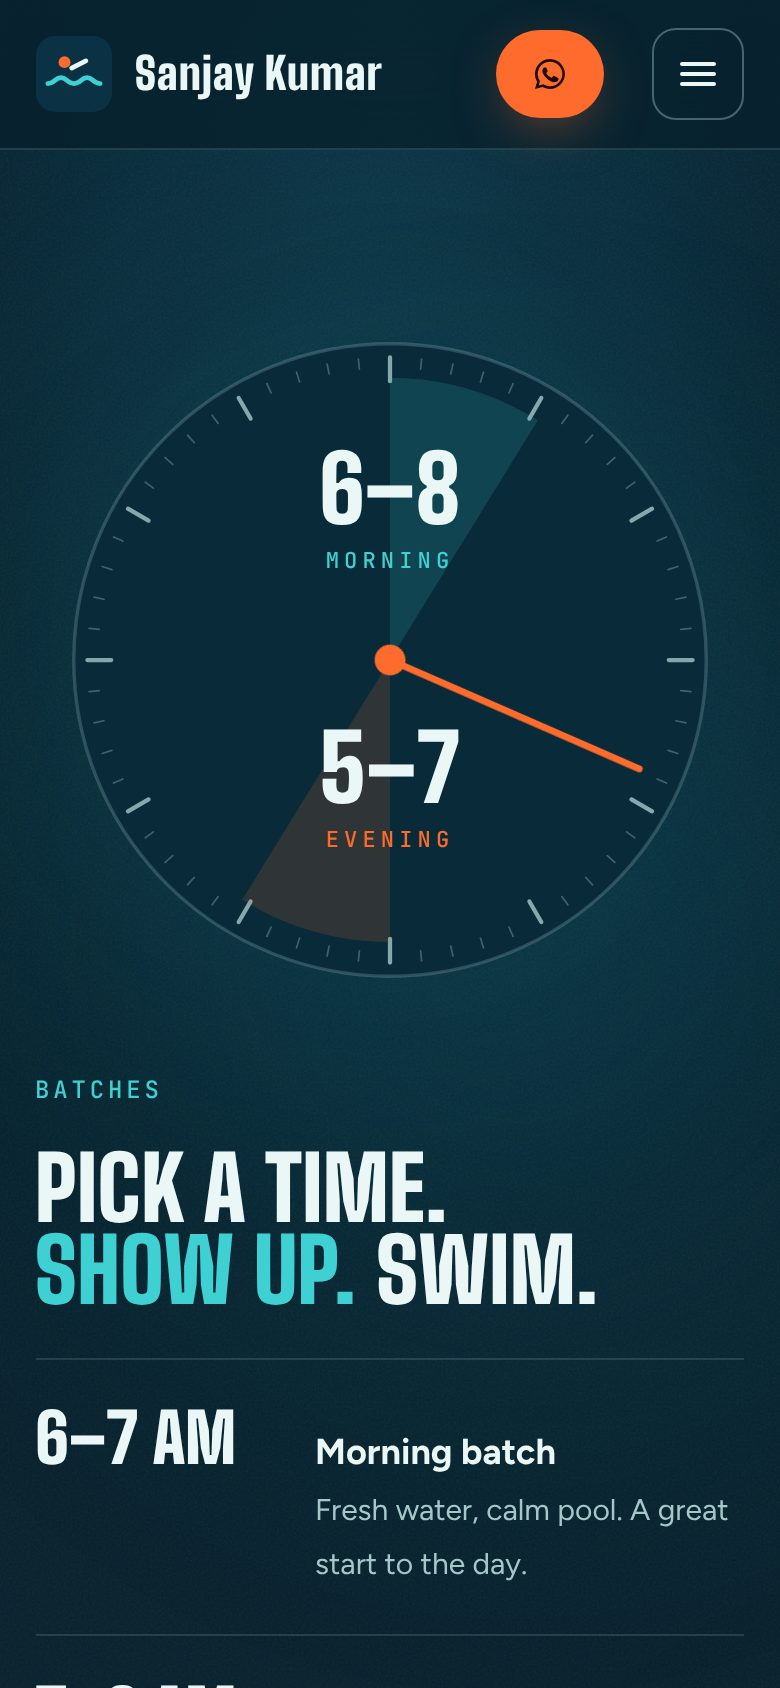
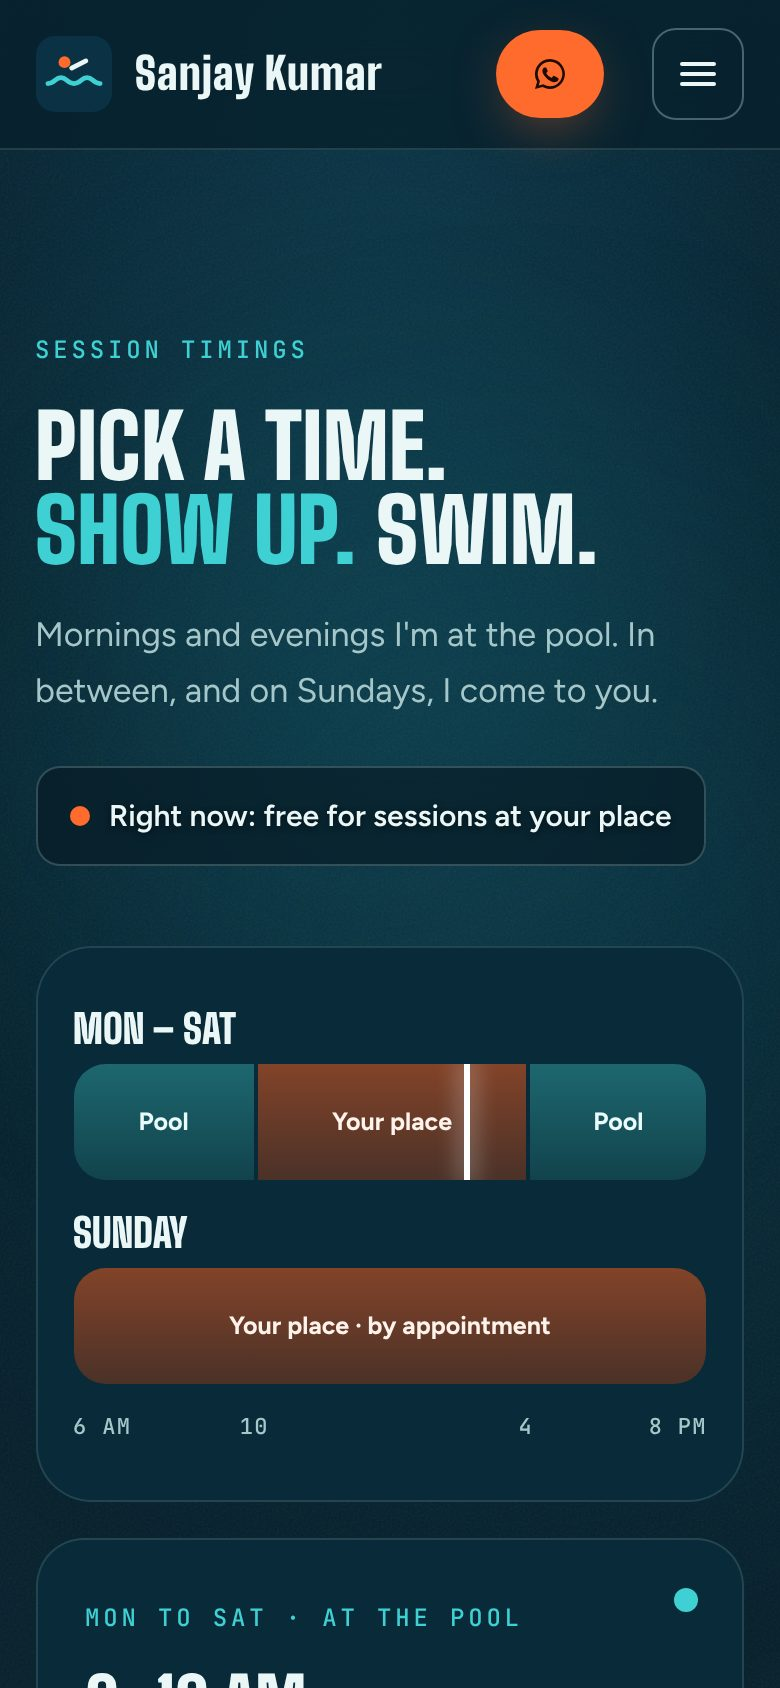
Session timings from Google hours: pool vs at-your-place
- At the pool: Mon to Sat, 6-10 AM and 4-8 PM (from the Google listing)
- At your place: Mon to Sat, 10 AM-4 PM, and Sundays by appointment
- Replace the clock with a day timeline, slot cards and a live
  "right now" status in Vadodara time
- Hours updated in hero, services, form, footer and schema; app
  screenshots refreshed; offline cache bumped to v5

Claude-Session: https://claude.ai/code/session_0166XwVfj69Xh86PZLCASZic

diff --git a/index.html b/index.html
@@ -71,7 +71,7 @@
       "areaServed": {"@type": "City", "name": "Vadodara"},
       "openingHoursSpecification": [{
         "@type": "OpeningHoursSpecification",
-        "dayOfWeek": ["Monday","Tuesday","Wednesday","Thursday","Friday","Saturday","Sunday"],
+        "dayOfWeek": ["Monday","Tuesday","Wednesday","Thursday","Friday","Saturday"],
         "opens": "06:00", "closes": "20:00"
       }],
       "hasOfferCatalog": {
@@ -389,18 +389,50 @@ fieldset{border:0;margin:0;padding:0;min-width:0}
 @media (max-width:900px){.steps{grid-template-columns:1fr}}
 
 /* ---------- batches as a pace clock ---------- */
-.batches .grid{max-width:1280px;margin:0 auto;display:grid;grid-template-columns:minmax(0,1fr) minmax(0,1fr);gap:clamp(30px,5vw,80px);align-items:center}
-.clockface{position:relative;aspect-ratio:1;max-width:520px;width:100%;margin:0 auto}
-.clockface svg{width:100%;height:100%}
-.clockface .hand{transform-origin:200px 200px;animation:sweep 60s linear infinite;animation-delay:-17s}
-@keyframes sweep{to{transform:rotate(360deg)}}
-.slots{list-style:none;margin:0;padding:0;border-top:1px solid var(--line)}
-.slots li{display:grid;grid-template-columns:150px 1fr;gap:20px;align-items:baseline;padding:22px 0;border-bottom:1px solid var(--line)}
-.slots time,.slots .t{font:900 34px/1 var(--display);font-variant-numeric:tabular-nums}
-.slots b{display:block;font-size:18px}
-.slots span{color:var(--text-secondary);font-size:15px}
-.batches h2{font-size:clamp(44px,5.4vw,84px);text-transform:uppercase;margin:16px 0 22px}
-@media (max-width:900px){.batches .grid{grid-template-columns:1fr}.clockface{max-width:340px}.slots li{grid-template-columns:120px 1fr}}
+.tl-head{display:flex;flex-wrap:wrap;justify-content:space-between;align-items:flex-end;gap:24px;margin-bottom:40px}
+.nowchip{display:inline-flex;align-items:center;gap:10px;padding:12px 16px;font-weight:600;font-size:15px}
+.nowchip i{width:10px;height:10px;border-radius:50%;background:var(--water);box-shadow:0 0 0 0 rgba(63,208,212,.6);animation:nowpulse 2.4s ease-out infinite}
+.nowchip.home i{background:var(--accent);animation-name:nowpulseO}
+.nowchip.off i{background:var(--text-secondary);animation:none}
+@keyframes nowpulse{0%{box-shadow:0 0 0 0 rgba(63,208,212,.55)}80%,100%{box-shadow:0 0 0 12px rgba(63,208,212,0)}}
+@keyframes nowpulseO{0%{box-shadow:0 0 0 0 rgba(255,107,44,.55)}80%,100%{box-shadow:0 0 0 12px rgba(255,107,44,0)}}
+.tl{padding:30px clamp(18px,3vw,36px) 18px;border-radius:28px;background:var(--canvas-2);border:1px solid var(--line)}
+.tl-row{display:grid;grid-template-columns:110px 1fr;gap:18px;align-items:center;margin-bottom:16px}
+.tl-day{font:900 24px/1 var(--display);text-transform:uppercase}
+.tl-bar{position:relative;height:58px;border-radius:16px;background:rgba(3,18,26,.6);overflow:hidden}
+.seg{position:absolute;top:0;bottom:0;left:calc(var(--l)*1%);width:calc(var(--w)*1%);display:flex;align-items:center;justify-content:center;font:600 14px/1.2 var(--body);text-align:center;padding:0 6px;transform-origin:left;transform:scaleX(0);transition:transform 1.1s var(--ease-out)}
+.seg+.seg{border-left:2px solid var(--canvas-2)}
+.seg.s-pool{background:linear-gradient(180deg,rgba(63,208,212,.42),rgba(63,208,212,.22));color:#e9fbfb}
+.seg.s-home{background:linear-gradient(180deg,rgba(255,107,44,.5),rgba(255,107,44,.28));color:#fff3ec}
+.seg b{font-weight:700}
+.seg .sm{display:none}
+.tl.in-view .seg{transform:none}
+.tl.in-view .tl-row .seg:nth-child(2){transition-delay:.15s}
+.tl.in-view .tl-row .seg:nth-child(3){transition-delay:.3s}
+.tl.in-view .tl-row[data-row=sun] .seg{transition-delay:.45s}
+.now{position:absolute;top:-4px;bottom:-4px;left:calc(var(--x,0)*1%);width:3px;margin-left:-1.5px;background:#fff;border-radius:3px;box-shadow:0 0 12px rgba(255,255,255,.8);display:none;z-index:2}
+.now.on{display:block}
+.tl-axis{position:relative;height:24px;margin-left:128px;margin-top:4px}
+.tl-axis span{position:absolute;left:calc(var(--x)*1%);transform:translateX(-50%);font:500 11px/1 var(--mono);letter-spacing:.06em;color:var(--text-secondary);white-space:nowrap}
+.tl-axis span:first-child{transform:none}
+.tl-axis span:last-child{transform:translateX(-100%)}
+.slotcards{display:grid;grid-template-columns:repeat(3,minmax(0,1fr));gap:16px;margin-top:18px}
+.slot{position:relative;padding:24px;border-radius:24px;background:var(--canvas-2);border:1px solid var(--line)}
+.slot .dot{position:absolute;right:22px;top:24px;width:12px;height:12px;border-radius:50%}
+.dot.s-pool{background:var(--water)}
+.dot.s-home{background:var(--accent)}
+.slot b{display:block;margin:14px 0 10px;font:900 clamp(34px,3.2vw,46px)/.95 var(--display);text-transform:uppercase}
+.slot p{color:var(--text-secondary);font-size:15px}
+.batches h2{font-size:clamp(44px,5.4vw,84px);text-transform:uppercase;margin:16px 0 18px}
+@media (max-width:900px){
+  .slotcards{grid-template-columns:1fr}
+  .tl-row{grid-template-columns:1fr;gap:8px}
+  .tl-axis{margin-left:0}
+  .tl-day{font-size:20px}
+  .seg .lg{display:none}.seg .sm{display:inline}
+  .seg{font-size:12.5px}
+  .tl-axis span:not(.k){display:none}
+}
 
 /* ---------- reviews ---------- */
 .reviews{overflow:hidden}
@@ -575,7 +607,7 @@ body.paused *,body.paused *::before,body.paused *::after{animation-play-state:pa
         <a class="btn btn-primary" href="#contact">Book your first session</a>
         <a class="btn btn-ghost" href="#services">See all services</a>
       </div>
-      <div class="meta h-in" style="--d:.96s"><span>Mon to Sun · 6 AM to 8 PM</span><span>At your place or the pool</span></div>
+      <div class="meta h-in" style="--d:.96s"><span>Mon to Sat · 6 AM to 8 PM</span><span>Sundays at your place</span></div>
     </div>
     <figure class="hero-photo">
       <div class="par" id="heroPar">
@@ -650,7 +682,7 @@ body.paused *,body.paused *::before,body.paused *::after{animation-play-state:pa
       <div class="swimmer" aria-hidden="true"><i></i></div>
       <div class="num" aria-hidden="true">01</div>
       <div><span class="badge">I come to you</span><h3>Personal training at your place</h3><div class="for">Home · society · farmhouse · club pools</div></div>
-      <p>Have a pool at home, in your apartment society, at a farmhouse or club? I come to you with a full lesson plan. Your timings, your privacy, and the whole family can share the session.</p>
+      <p>Have a pool at home, in your apartment society, at a farmhouse or club? I come to you with a full lesson plan. Mon to Sat, 10 AM to 4 PM, and Sundays. Your privacy, and the whole family can share the session.</p>
       <a class="ask" href="https://wa.me/919896424193?text=Hi%20Sanjay%20sir%2C%20I%27d%20like%20personal%20swimming%20training%20at%20my%20place." target="_blank" rel="noopener">Ask about this →</a>
     </article>
     <svg class="lanerope" viewBox="0 0 1200 16" preserveAspectRatio="none" aria-hidden="true"><path class="draw" d="M0 8H1200" stroke="#ff6b2c" stroke-width="6" stroke-dasharray="10 8" pathLength="1200" style="stroke-dashoffset:calc(var(--draw,1)*1200)"/></svg>
@@ -658,7 +690,7 @@ body.paused *,body.paused *::before,body.paused *::after{animation-play-state:pa
       <div class="swimmer" aria-hidden="true"><i></i></div>
       <div class="num" aria-hidden="true">02</div>
       <div><h3>One-on-one at the pool</h3><div class="for">No pool at home? No problem</div></div>
-      <p>We train one-on-one at a pool in Vadodara that is easy for you to reach. Just you and me in the lane, with full attention on your stroke, breathing and pace.</p>
+      <p>We train one-on-one at a pool in Vadodara that is easy for you to reach. Mon to Sat, 6–10 AM or 4–8 PM. Just you and me in the lane, with full attention on your stroke, breathing and pace.</p>
       <a class="ask" href="https://wa.me/919896424193?text=Hi%20Sanjay%20sir%2C%20I%27d%20like%20one-on-one%20training%20at%20the%20pool." target="_blank" rel="noopener">Ask about this →</a>
     </article>
     <svg class="lanerope" viewBox="0 0 1200 16" preserveAspectRatio="none" aria-hidden="true"><path class="draw" d="M0 8H1200" stroke="#eaf7f6" stroke-opacity=".5" stroke-width="6" stroke-dasharray="10 8" pathLength="1200" style="stroke-dashoffset:calc(var(--draw,1)*1200)"/></svg>
@@ -799,28 +831,38 @@ body.paused *,body.paused *::before,body.paused *::after{animation-play-state:pa
 
 <!-- ============ BATCHES ============ -->
 <section class="sec batches reveal" id="batches" aria-labelledby="batches-h">
-  <div class="grid">
-    <div class="clockface rv" aria-hidden="true">
-      <svg viewBox="0 0 400 400">
-        <circle cx="200" cy="200" r="186" fill="#082a39" stroke="rgba(159,195,198,.25)" stroke-width="2"/>
-        <g stroke="#a6c7ca" stroke-linecap="round" id="ticks"></g>
-        <path d="M200 200 L200 34 A166 166 0 0 1 287 59 Z" fill="rgba(63,208,212,.16)"/>
-        <path d="M200 200 L200 366 A166 166 0 0 1 113 341 Z" fill="rgba(255,107,44,.16)"/>
-        <text x="200" y="120" text-anchor="middle" fill="#eaf7f6" font-family="Big Shoulders Display,Impact,sans-serif" font-weight="900" font-size="54">6–8</text>
-        <text x="200" y="146" text-anchor="middle" fill="#3fd0d4" font-family="JetBrains Mono,monospace" font-size="13" letter-spacing="3">MORNING</text>
-        <text x="200" y="284" text-anchor="middle" fill="#eaf7f6" font-family="Big Shoulders Display,Impact,sans-serif" font-weight="900" font-size="54">5–7</text>
-        <text x="200" y="310" text-anchor="middle" fill="#ff6b2c" font-family="JetBrains Mono,monospace" font-size="13" letter-spacing="3">EVENING</text>
-        <g class="hand"><line x1="200" y1="200" x2="200" y2="40" stroke="#ff6b2c" stroke-width="4" stroke-linecap="round"/><circle cx="200" cy="200" r="9" fill="#ff6b2c"/></g>
-      </svg>
+  <div class="wrap">
+    <div class="tl-head">
+      <div>
+        <span class="kicker rv">Session timings</span>
+        <h2 class="rv" id="batches-h">Pick a time. <span class="aq">Show up.</span> Swim.</h2>
+        <p class="lede rv">Mornings and evenings I'm at the pool. In between, and on Sundays, I come to you.</p>
+      </div>
+      <div class="nowchip chip rv" id="nowChip" hidden><i aria-hidden="true"></i><span id="nowText"></span></div>
     </div>
-    <div>
-      <span class="kicker rv">Session timings</span>
-      <h2 class="rv" id="batches-h">Pick a time. <span class="aq">Show up.</span> Swim.</h2>
-      <ul class="slots rv">
-        <li><time datetime="06:00">6–8 AM</time><div><b>Morning sessions</b><span>Calm water, fresh start. Before school or office.</span></div></li>
-        <li><time datetime="17:00">5–7 PM</time><div><b>Evening sessions</b><span>After school for kids, after work for adults.</span></div></li>
-        <li><span class="t">Your time</span><div><b>At your place</b><span>Home or society pool sessions planned around your day.</span></div></li>
-      </ul>
+    <div class="tl rv" role="img" aria-label="Monday to Saturday: at the pool 6 to 10 AM, at your place 10 AM to 4 PM, at the pool 4 to 8 PM. Sunday: at your place by appointment.">
+      <div class="tl-row" data-row="week">
+        <div class="tl-day">Mon – Sat</div>
+        <div class="tl-bar">
+          <span class="seg s-pool" style="--l:0;--w:28.571"><b class="lg">At the pool</b><b class="sm">Pool</b></span>
+          <span class="seg s-home" style="--l:28.571;--w:42.857"><b class="lg">At your place</b><b class="sm">Your place</b></span>
+          <span class="seg s-pool" style="--l:71.429;--w:28.571"><b class="lg">At the pool</b><b class="sm">Pool</b></span>
+          <i class="now" aria-hidden="true"></i>
+        </div>
+      </div>
+      <div class="tl-row" data-row="sun">
+        <div class="tl-day">Sunday</div>
+        <div class="tl-bar">
+          <span class="seg s-home" style="--l:0;--w:100"><b class="lg">At your place · by appointment</b><b class="sm">Your place · by appointment</b></span>
+          <i class="now" aria-hidden="true"></i>
+        </div>
+      </div>
+      <div class="tl-axis" aria-hidden="true"><span class="k" style="--x:0">6 AM</span><span style="--x:14.286">8</span><span class="k" style="--x:28.571">10</span><span style="--x:42.857">12 PM</span><span style="--x:57.143">2</span><span class="k" style="--x:71.429">4</span><span style="--x:85.714">6</span><span class="k" style="--x:100">8 PM</span></div>
+    </div>
+    <div class="slotcards">
+      <div class="slot rv"><span class="dot s-pool" aria-hidden="true"></span><span class="kicker">Mon to Sat · at the pool</span><b>6–10 AM<br>4–8 PM</b><p>One-on-one at the pool. Mornings before school or office, evenings after.</p></div>
+      <div class="slot rv"><span class="dot s-home" aria-hidden="true"></span><span class="kicker">Mon to Sat · at your place</span><b>10 AM–4 PM</b><p>I come to your home, society or farmhouse pool in my free hours.</p></div>
+      <div class="slot rv"><span class="dot s-home" aria-hidden="true"></span><span class="kicker">Sunday · at your place</span><b>By appointment</b><p>Weekend sessions at your pool. Message me to fix a time.</p></div>
     </div>
   </div>
 </section>
@@ -918,7 +960,7 @@ body.paused *,body.paused *::before,body.paused *::after{animation-play-state:pa
         <div class="row2 rv">
           <div class="field"><label for="f-age">Swimmer's age</label><input id="f-age" name="age" inputmode="numeric" placeholder="e.g. 8"></div>
           <div class="field"><label for="f-time">Best time</label>
-            <select id="f-time" name="time"><option>Morning</option><option>Evening</option><option>Flexible</option></select></div>
+            <select id="f-time" name="time"><option>Morning, 6–10 AM (at the pool)</option><option>Evening, 4–8 PM (at the pool)</option><option>Daytime, 10 AM–4 PM (at my place)</option><option>Sunday (at my place)</option><option>Flexible</option></select></div>
         </div>
         <div class="field rv"><label for="f-msg">Anything I should know?</label><textarea id="f-msg" name="msg" placeholder="Area in Vadodara, swimming level, goals"></textarea></div>
         <button class="btn btn-primary rv" type="submit">Send on WhatsApp</button>
@@ -958,7 +1000,8 @@ body.paused *,body.paused *::before,body.paused *::after{animation-play-state:pa
         <li><a href="https://wa.me/919896424193" target="_blank" rel="noopener">WhatsApp</a></li>
         <li><a href="mailto:sanjuinsan9845@gmail.com">sanjuinsan9845@gmail.com</a></li>
         <li>Personal training across Vadodara</li>
-        <li>Mon to Sun · 6 AM to 8 PM</li>
+        <li>At the pool: Mon to Sat, 6–10 AM &amp; 4–8 PM</li>
+        <li>At your place: Mon to Sat, 10 AM–4 PM, and Sundays</li>
       </ul>
     </div>
   </div>
@@ -1084,16 +1127,31 @@ const live = new IntersectionObserver(es => es.forEach(e => e.target.classList.t
 $$('.hero, .ticker, .batches, .coach, .pool').forEach(el => live.observe(el));
 document.addEventListener('visibilitychange', () => document.body.classList.toggle('paused', document.hidden));
 
-// clock ticks
-const ticks = $('#ticks');
-for (let i = 0; i < 60; i++) {
-  const a = i / 60 * Math.PI * 2, r1 = i % 5 ? 172 : 164, r2 = 178;
-  const l = document.createElementNS('http://www.w3.org/2000/svg', 'line');
-  l.setAttribute('x1', 200 + Math.sin(a) * r1); l.setAttribute('y1', 200 - Math.cos(a) * r1);
-  l.setAttribute('x2', 200 + Math.sin(a) * r2); l.setAttribute('y2', 200 - Math.cos(a) * r2);
-  l.setAttribute('stroke-width', i % 5 ? 1 : 2.5); l.setAttribute('opacity', i % 5 ? .35 : .8);
-  ticks.appendChild(l);
+// timeline: draw bars when seen, and mark "now" in Vadodara time
+const tl = $('.tl');
+new IntersectionObserver((es, o) => es.forEach(e => { if (e.isIntersecting) { tl.classList.add('in-view'); o.disconnect(); } }), { threshold: 0.35 }).observe(tl);
+const nowChip = $('#nowChip'), nowText = $('#nowText');
+function updateNow() {
+  const parts = new Intl.DateTimeFormat('en-GB', { timeZone: 'Asia/Kolkata', weekday: 'short', hour: 'numeric', minute: 'numeric', hourCycle: 'h23' }).formatToParts(new Date());
+  const get = t => parts.find(p => p.type === t).value;
+  const day = get('weekday'), h = +get('hour') + +get('minute') / 60, sun = day === 'Sun';
+  $$('.tl .now').forEach(n => n.classList.remove('on'));
+  let txt, cls = '';
+  if (h >= 6 && h < 20) {
+    const mark = $(`.tl-row[data-row=${sun ? 'sun' : 'week'}] .now`);
+    mark.style.setProperty('--x', ((h - 6) / 14 * 100).toFixed(2));
+    mark.classList.add('on');
+  }
+  if (sun) { txt = 'Sunday: home sessions by appointment'; cls = 'home'; }
+  else if ((h >= 6 && h < 10) || (h >= 16 && h < 20)) { txt = 'Right now: at the pool'; }
+  else if (h >= 10 && h < 16) { txt = 'Right now: free for sessions at your place'; cls = 'home'; }
+  else { txt = 'Off for now. WhatsApp to book'; cls = 'off'; }
+  nowText.textContent = txt;
+  nowChip.className = 'nowchip chip rv ' + cls;
+  nowChip.hidden = false;
 }
+updateNow();
+setInterval(updateNow, 60000);
 
 /* ---------- reduced motion, live in both directions ---------- */
 function pinToFinalStates() {
@@ -1101,6 +1159,7 @@ function pinToFinalStates() {
   draws.forEach(el => { el._d = 0; el.style.setProperty('--draw', 0); });
   counters.forEach(el => { el._done = true; countIO.unobserve(el); el.textContent = fmt(+el.dataset.count); });
   $$('.reveal, .pool').forEach(el => el.classList.add('in', 'done'));
+  tl.classList.add('in-view');
 }
 function unpinFinalStates() {
   if (!pinned) return;

diff --git a/sw.js b/sw.js
@@ -1,6 +1,6 @@
 // Coach Sanjay app shell. Pages: network first, cached copy when offline.
 // Images, fonts, icons: cache first. Videos are never cached (too big).
-const VERSION = 'coach-sanjay-v4';
+const VERSION = 'coach-sanjay-v5';
 const SHELL = [
   './',
   './index.html',
